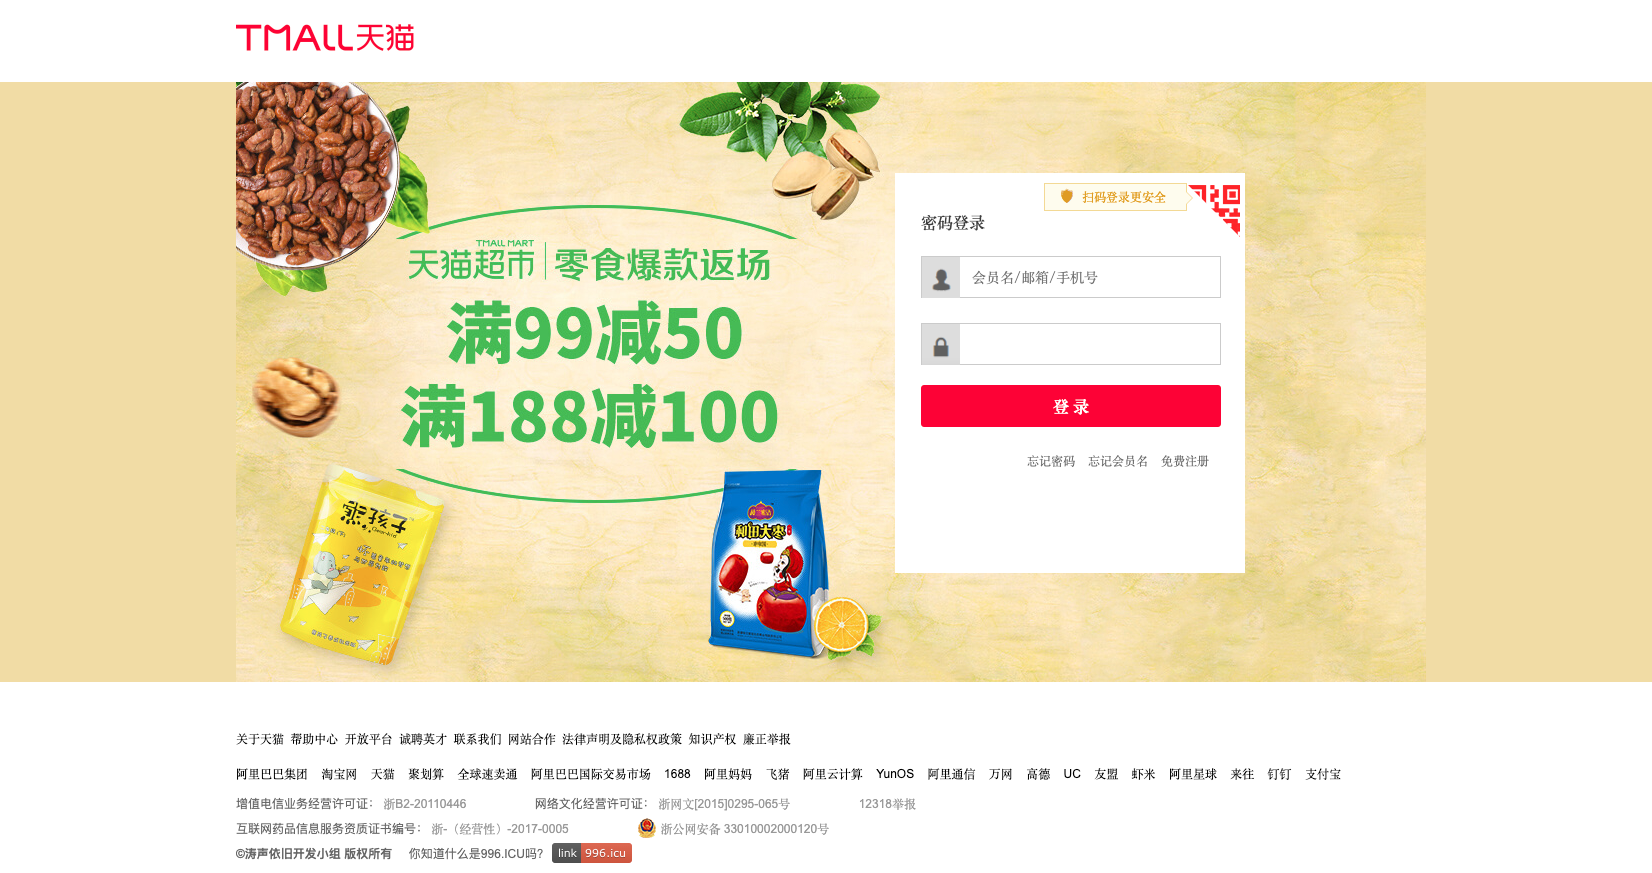
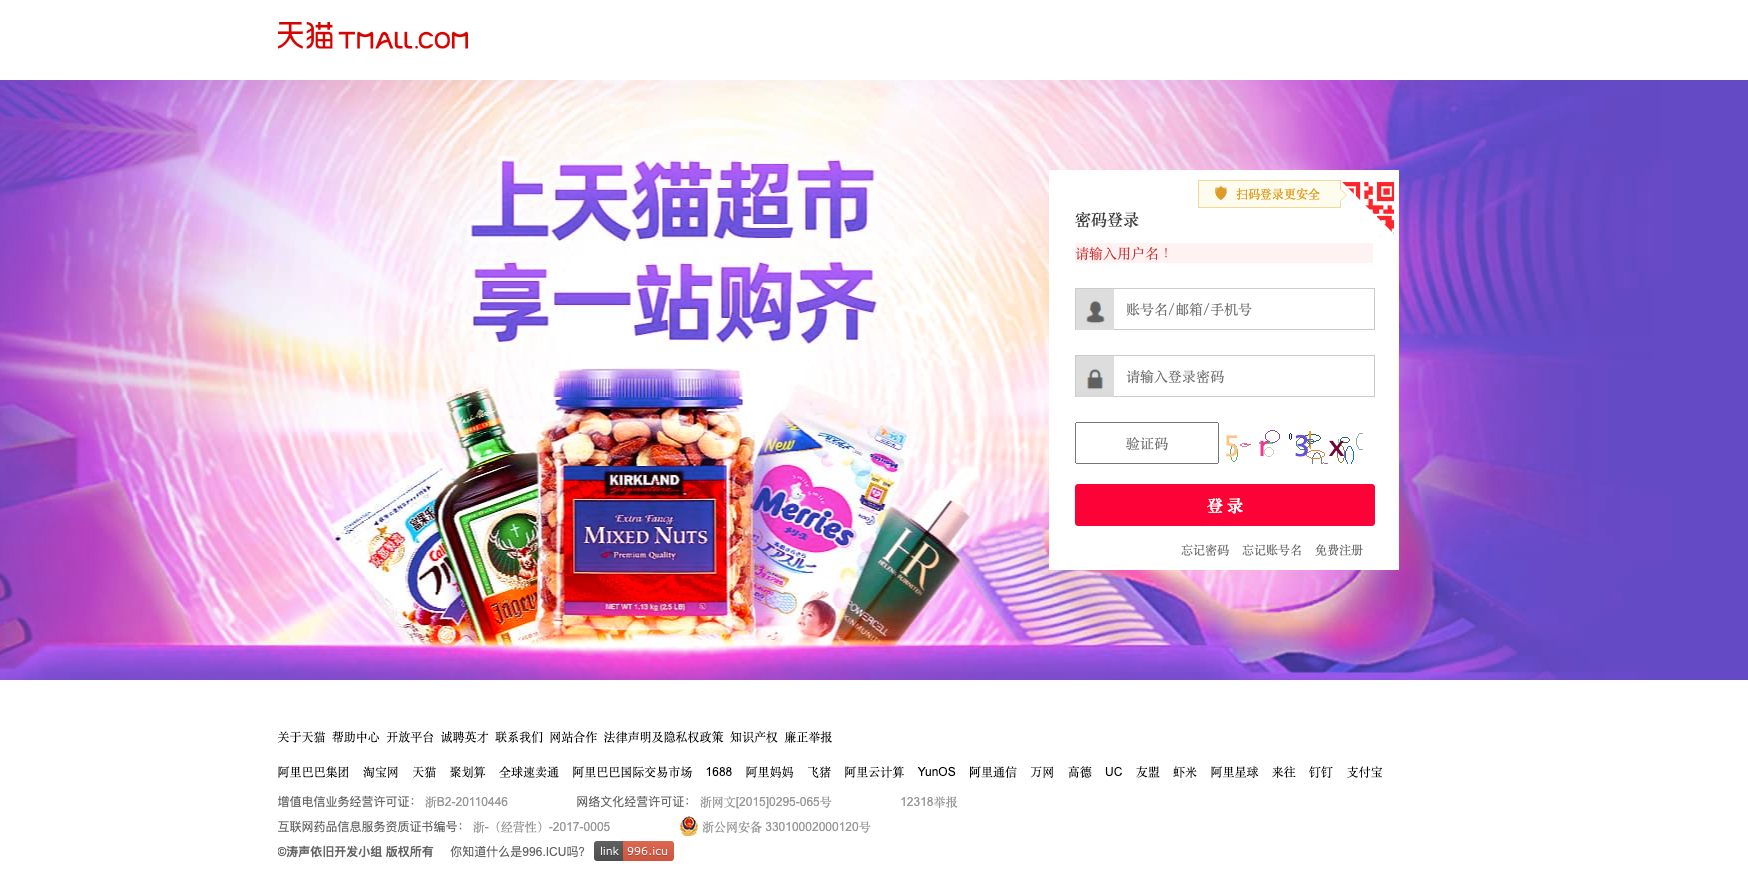
新增前端首页验证码及页面优化

diff --git a/src/main/webapp/res/js/fore/fore_login.js b/src/main/webapp/res/js/fore/fore_login.js
@@ -1,4 +1,5 @@
 $(function () {
+    getHomeCode();
     //二维码动画
     $("#qrcodeA").hover(
         function () {
@@ -36,12 +37,29 @@ $(function () {
     $(".loginForm").submit(function () {
         let yn = true;
         $(this).find(":text,:password").each(function () {
-            if ($.trim($(this).val()) === "") {
-                styleUtil.errorShow($("#error_message_p"), "请输入用户名和密码！");
+            let code = $("#code").val();
+            if ($("#name").val() === "") {
+                styleUtil.errorShow($("#error_message_p"), "请输入用户名！");
+                yn = false;
+                return yn;
+            }
+            if ($("#password").val() === "") {
+                styleUtil.errorShow($("#error_message_p"), "请输入密码！");
+                yn = false;
+                return yn;
+            }
+            if ($("#code").val() === "") {
+                styleUtil.errorShow($("#error_message_p"), "请输入验证码！");
+                yn = false;
+                return yn;
+            }
+            if (cookieUtil.getCookie("loginCode") != code) {
+                styleUtil.errorShow($("#error_message_p"), "验证码错误!");
                 yn = false;
                 return yn;
             }
         });
+
         if (yn) {
             $.ajax({
                 type: "POST",
@@ -52,6 +70,7 @@ $(function () {
                     $(".loginButton").val("登 录");
                     if (data.success) {
                         location.href = "/tmall";
+                        cookieUtil.removeCookie("loginCode");
                     } else {
                         styleUtil.errorShow($("#error_message_p"), "用户名和密码错误！");
                     }
@@ -67,7 +86,17 @@ $(function () {
         }
         return false;
     });
-    $(".loginForm :text,.loginForm :password").focus(function () {
+  /*  $(".loginForm :text,.loginForm :password").focus(function () {
         styleUtil.errorHide($("#error_message_p"));
-    });
+    });*/
 });
+
+//获取登录验证码
+function getHomeCode() {
+    $.getJSON("/tmall/login/code",function (data) {
+        if(data!== null){
+            $("#img_code").attr("src", data.img);
+            cookieUtil.setCookie("loginCode", data.code,1);
+        }
+    });
+}

diff --git a/src/main/webapp/res/css/fore/fore_login.css b/src/main/webapp/res/css/fore/fore_login.css
@@ -9,18 +9,22 @@
 
 .content > .contentMain {
     position: relative;
-    width: 1190px;
+    top: 0;
+    left: 0;
+    background-size: cover;
+    background-repeat: no-repeat;
+    background-position: 50%;
+    width: 100%;
     height: 600px;
-    margin: auto;
-    background-image: url(../../images/fore/WebsiteImage/loginbz3.jpg);
+    background-image: url(../../images/fore/WebsiteImage/login.png);
 }
 
 .loginDiv {
     width: 350px;
     height: 400px;
     position: absolute;
-    top: 91px;
-    right: 425px;
+    top: 90px;
+    right: 350px;
     background: #ffffff;
     color: #404040;
 }
@@ -126,6 +130,12 @@
     font-size: 18px;
 }
 
+.loginInputDiv > .loginCode {
+    width: 140px;
+    height: 38px;
+    text-align: center;
+}
+
 .loginLabel > i {
     color: #606060;
 }
@@ -159,7 +169,7 @@
 }
 
 .pwdLogin .loginLinks {
-    margin-top: 25px;
+    margin-top: 15px;
     text-align: right;
     font-size: 12px;
 }
@@ -175,9 +185,11 @@
 }
 
 .pwdLogin .error_message {
-    margin-top: 30px;
-    text-align: center;
-    font-size: 14px;
+    display: block;
+    border-color: #ffb4a8;
+    background-color: #fef2f2;
+    margin-top: 15px;
+    position: relative;
 }
 
 .error_message > p {

diff --git a/src/main/java/com/xq/tmall/controller/fore/ForeLoginController.java b/src/main/java/com/xq/tmall/controller/fore/ForeLoginController.java
@@ -1,7 +1,11 @@
 package com.xq.tmall.controller.fore;
 
+import cn.hutool.captcha.CaptchaUtil;
+import cn.hutool.captcha.CircleCaptcha;
 import com.alibaba.fastjson.JSONObject;
+import com.baomidou.mybatisplus.toolkit.IdWorker;
 import com.xq.tmall.controller.BaseController;
+import com.xq.tmall.entity.ApiVerCodeResp;
 import com.xq.tmall.entity.User;
 import com.xq.tmall.service.UserService;
 import com.xq.tmall.util.Constants;
@@ -26,35 +30,35 @@ public class ForeLoginController extends BaseController {
     @Autowired
     private UserService userService;
 
-    //转到前台天猫-登录页
+    // 转到前台天猫-登录页
     @ApiOperation(value = "转到前台天猫-登录页", notes = "转到前台天猫-登录页")
     @GetMapping(value = "login")
     public String goToPage(HttpSession session, Map<String, Object> map) {
-        //转到前台天猫-登录页
+        // 转到前台天猫-登录页
         return "fore/loginPage";
     }
 
-    //登陆验证-ajax
+    // 登陆验证-ajax
     @ApiOperation(value = "登陆验证", notes = "登陆验证")
     @ResponseBody
     @PostMapping(value = "login/doLogin", produces = "application/json;charset=utf-8")
     public String checkLogin(HttpSession session, @RequestParam String username, @RequestParam String password) {
-        //用户验证登录
+        // 用户验证登录
         User user = userService.login(username, password);
 
         JSONObject jsonObject = new JSONObject();
         if (user == null) {
-            //登录验证失败
+            // 登录验证失败
             jsonObject.put(Constants.SUCCESS, false);
         } else {
-            //登录验证成功,用户ID传入会话
+            // 登录验证成功,用户ID传入会话
             session.setAttribute(Constants.USER_ID, user.getUser_id());
             jsonObject.put(Constants.SUCCESS, true);
         }
         return String.valueOf(jsonObject);
     }
 
-    //退出当前账号
+    // 退出当前账号
     @ApiOperation(value = "退出当前账号", notes = "退出当前账号")
     @GetMapping(value = "login/logout")
     public String logout(HttpSession session) {
@@ -62,8 +66,17 @@ public class ForeLoginController extends BaseController {
         if (o != null) {
             session.removeAttribute(Constants.USER_ID);
             session.invalidate();
-            //登录信息已清除，返回用户登录页
+            // 登录信息已清除，返回用户登录页
         }
         return "redirect:/login";
+    }
+
+
+    @ApiOperation(value = "登录验证码", notes = "登录验证码")
+    @ResponseBody
+    @GetMapping(value = "login/code")
+    public ApiVerCodeResp getVerCode() {
+        CircleCaptcha captcha = CaptchaUtil.createCircleCaptcha(140, 38, 4, 20);
+        return new ApiVerCodeResp(String.valueOf(IdWorker.getId()), captcha.getImageBase64Data(), captcha.getCode().toLowerCase());
     }
 }
